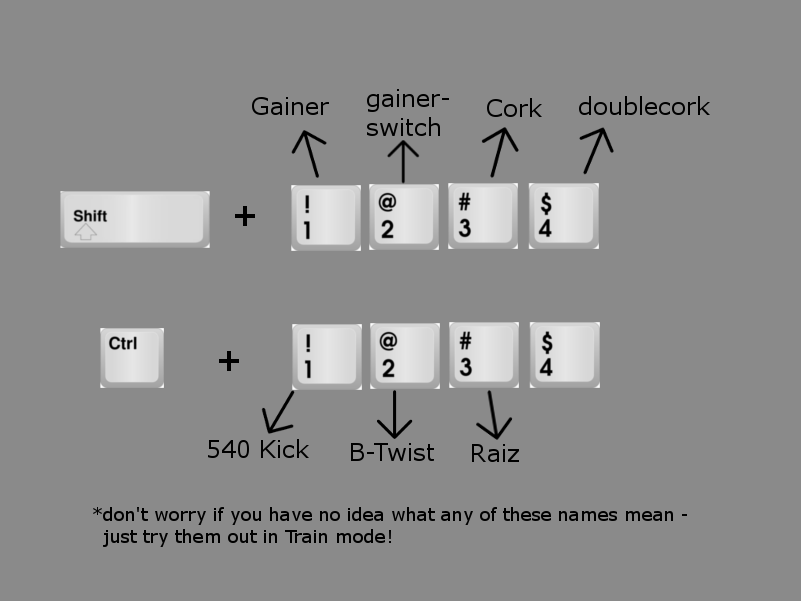
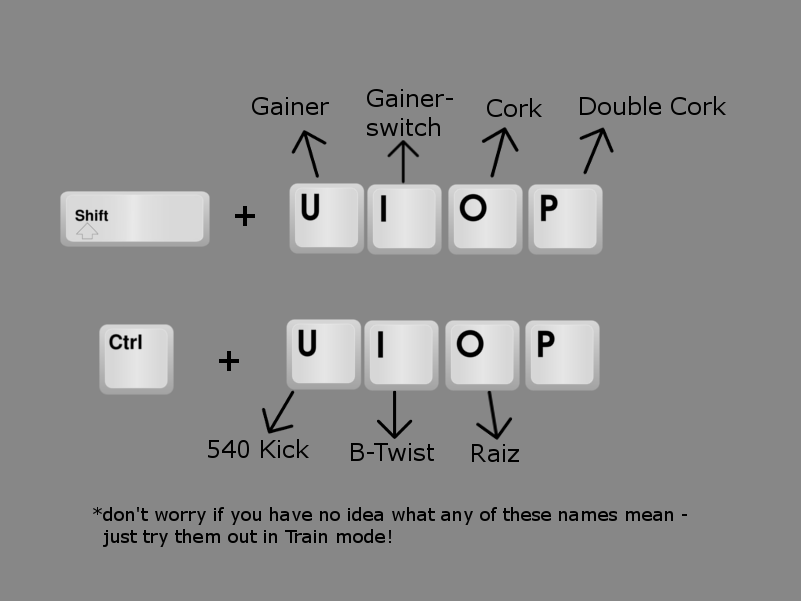
new controls, initial dialog for battle

diff --git a/code/play.py b/code/play.py
@@ -1,4 +1,5 @@
 from direct.showbase.DirectObject import DirectObject
+from direct.interval.IntervalGlobal import Sequence, Func, Wait
 from direct.task import Task
 from direct.gui.DirectGui import *
 
@@ -19,15 +20,15 @@ class Play(DirectObject):
         base.currPlayer.actor.pose('btwist', 1)
 
         # define controls
-        self.accept('!', base.currPlayer.tryTrick, [base.currPlayer.gainer, taskMgr])
-        self.accept('@', base.currPlayer.tryTrick, [base.currPlayer.gswitch, taskMgr])
-        self.accept('#', base.currPlayer.tryTrick, [base.currPlayer.cork, taskMgr])
-        self.accept('$', base.currPlayer.tryTrick, [base.currPlayer.doublecork, taskMgr])
+        self.accept('shift-u', base.currPlayer.tryTrick, [base.currPlayer.gainer, taskMgr])
+        self.accept('shift-i', base.currPlayer.tryTrick, [base.currPlayer.gswitch, taskMgr])
+        self.accept('shift-o', base.currPlayer.tryTrick, [base.currPlayer.cork, taskMgr])
+        self.accept('shift-p', base.currPlayer.tryTrick, [base.currPlayer.doublecork, taskMgr])
 
-        # self.accept('control-1', base.currPlayer.tryTrick, [base.currPlayer.c540])
-        self.accept('control-2', base.currPlayer.tryTrick, [base.currPlayer.btwist, taskMgr])
-        # self.accept('control-3', base.currPlayer.tryTrick, [base.currPlayer.raiz])
-        # self.accept('control-4', base.currPlayer.tryTrick, [base.currPlayer.cartFull])
+        # self.accept('control-u', base.currPlayer.tryTrick, [base.currPlayer.c540])
+        self.accept('control-i', base.currPlayer.tryTrick, [base.currPlayer.btwist, taskMgr])
+        # self.accept('control-o', base.currPlayer.tryTrick, [base.currPlayer.]][]  raiz])
+        # self.accept('control-p', base.currPlayer.tryTrick, [base.currPlayer.cartFull])
 
         # Add SetCameraTask to task manager
         # IMPORTANT: camera is parented to the dummyNode in tricker's chest
@@ -80,6 +81,10 @@ class Play(DirectObject):
         self.startMenuButton = DirectButton(text=("quit"), scale=0.05,
                                             command=self.switchToMainMenu, parent=base.a2dTopLeft,
                                             pos=(0.0525, 0, -0.045))
+
+        self.initialDialog = None
+        self.popupText = None
+        self.popupSeq = None
 
     def switchToMainMenu(self):
         base.gameFSM.demand('StartMenu')
@@ -160,6 +165,22 @@ class Play(DirectObject):
         camera.lookAt(self.trickerDummyNode)
 
         return Task.cont
+
+    def createPopupText(self,s):
+        self.popupText = OnscreenText(text=s, scale = 0.07, parent=render2d,
+                                      pos = (0,0) )
+
+    def removePopupText(self):
+        self.popupText.detachNode()
+        self.popupText = None
+        self.popupSeq = None
+
+    def drawPopupText(self, s):
+        if not self.popupSeq:
+            self.popupSeq = Sequence(Func(self.createPopupText, s),
+                     Wait(2),
+                     Func(self.removePopupText))
+            self.popupSeq.start()
 
     def destroy(self):
         self.ignoreAll()

diff --git a/code/battle.py b/code/battle.py
@@ -1,13 +1,10 @@
-from direct.showbase.DirectObject import DirectObject
 from direct.task import Task
 from direct.gui.DirectGui import *
 
-from panda3d.core import *
-
-from math import *
-
 from battleData import BattleData
 from play import Play
+
+import random
 
 
 class BattleMode(Play):
@@ -30,6 +27,30 @@ class BattleMode(Play):
 
         taskMgr.add(self.checkGameStateTask, 'checkGameState')
 
+        self.showInitialDialog()
+
+    def showInitialDialog(self):
+        self.ignoreAll()
+        initialStr = "- BATTLE MODE - \n" \
+                     "Chain together tricks to outscore your opponent \n" \
+                     "Hit the button too early or run out of stamina, and you'll fall \n" \
+                     "First to three rounds wins!"
+        self.initialDialog = DirectDialog(dialogName="initialDialog", scale=1,
+                                          text=initialStr,
+                                          buttonTextList=['Roll for turn'],
+                                          command=self.rollForTurn)
+    def rollForTurn(self, arg):
+        player = random.randint(1,2)
+        if player == 1:
+            base.currPlayer = base.player1
+        elif player == 2:
+            base.currPlayer = base.player2
+        base.firstBattle = False
+        self.initialDialog.detachNode()
+        s = base.currPlayer.getName() + " won the roll. Throw your first pass!"
+        self.drawPopupText(s)
+        self.destroy()
+        self.reInit()
 
     def checkGameStateTask(self, task):
         if base.currPlayer.comboHasEnded():
@@ -96,8 +117,6 @@ class BattleMode(Play):
                                         parent = base.a2dBottomLeft, fg=(1,1,1,1))
         self.p2RoundText = OnscreenText(pos=(-0.3, 0.2), scale=0.1,
                                         parent=base.a2dBottomRight, fg=(1, 1, 1, 1))
-
-        self.endGameDialog = None
 
         taskMgr.add(self.drawUITask, 'drawUI', extraArgs=['battle'],
                     appendTask=True)
